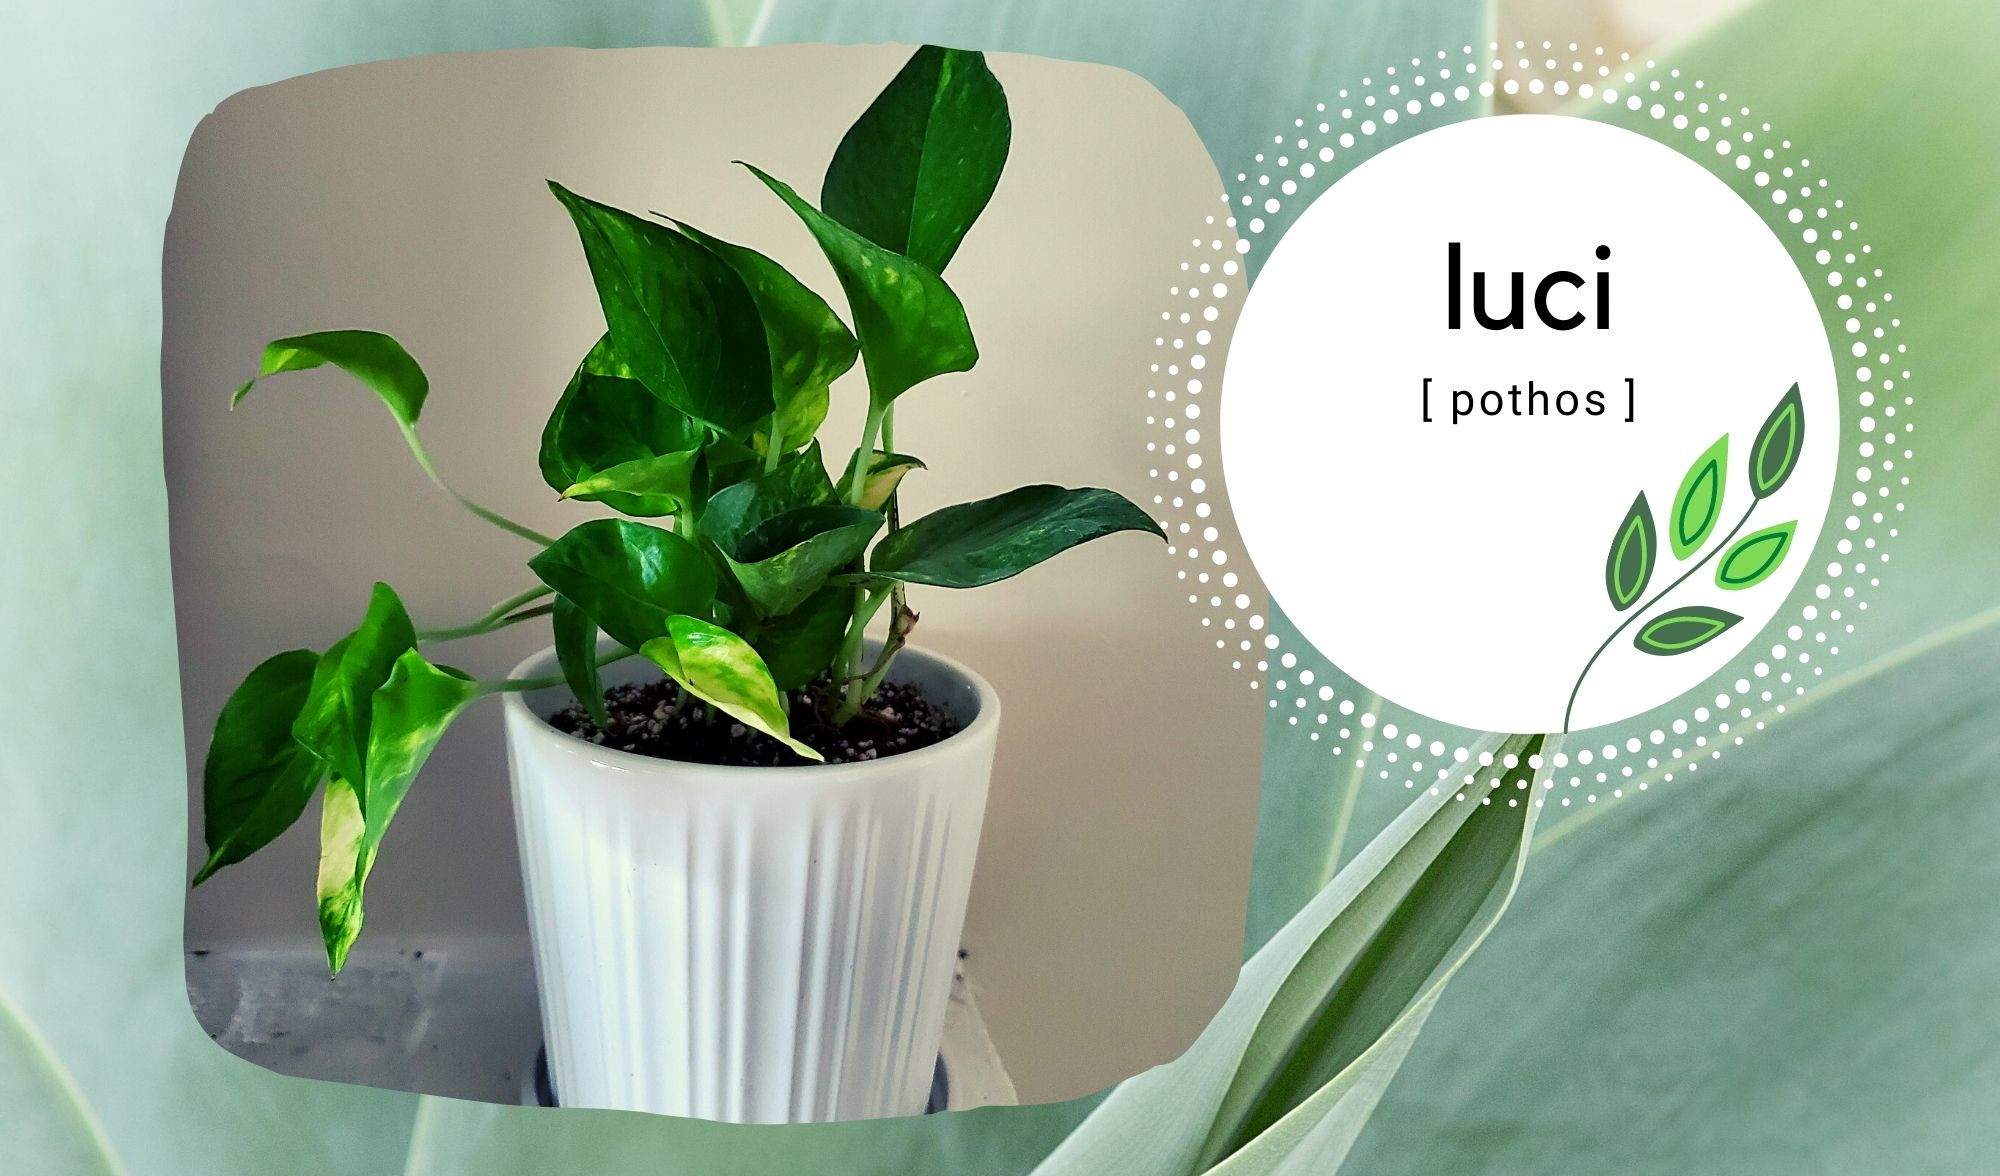
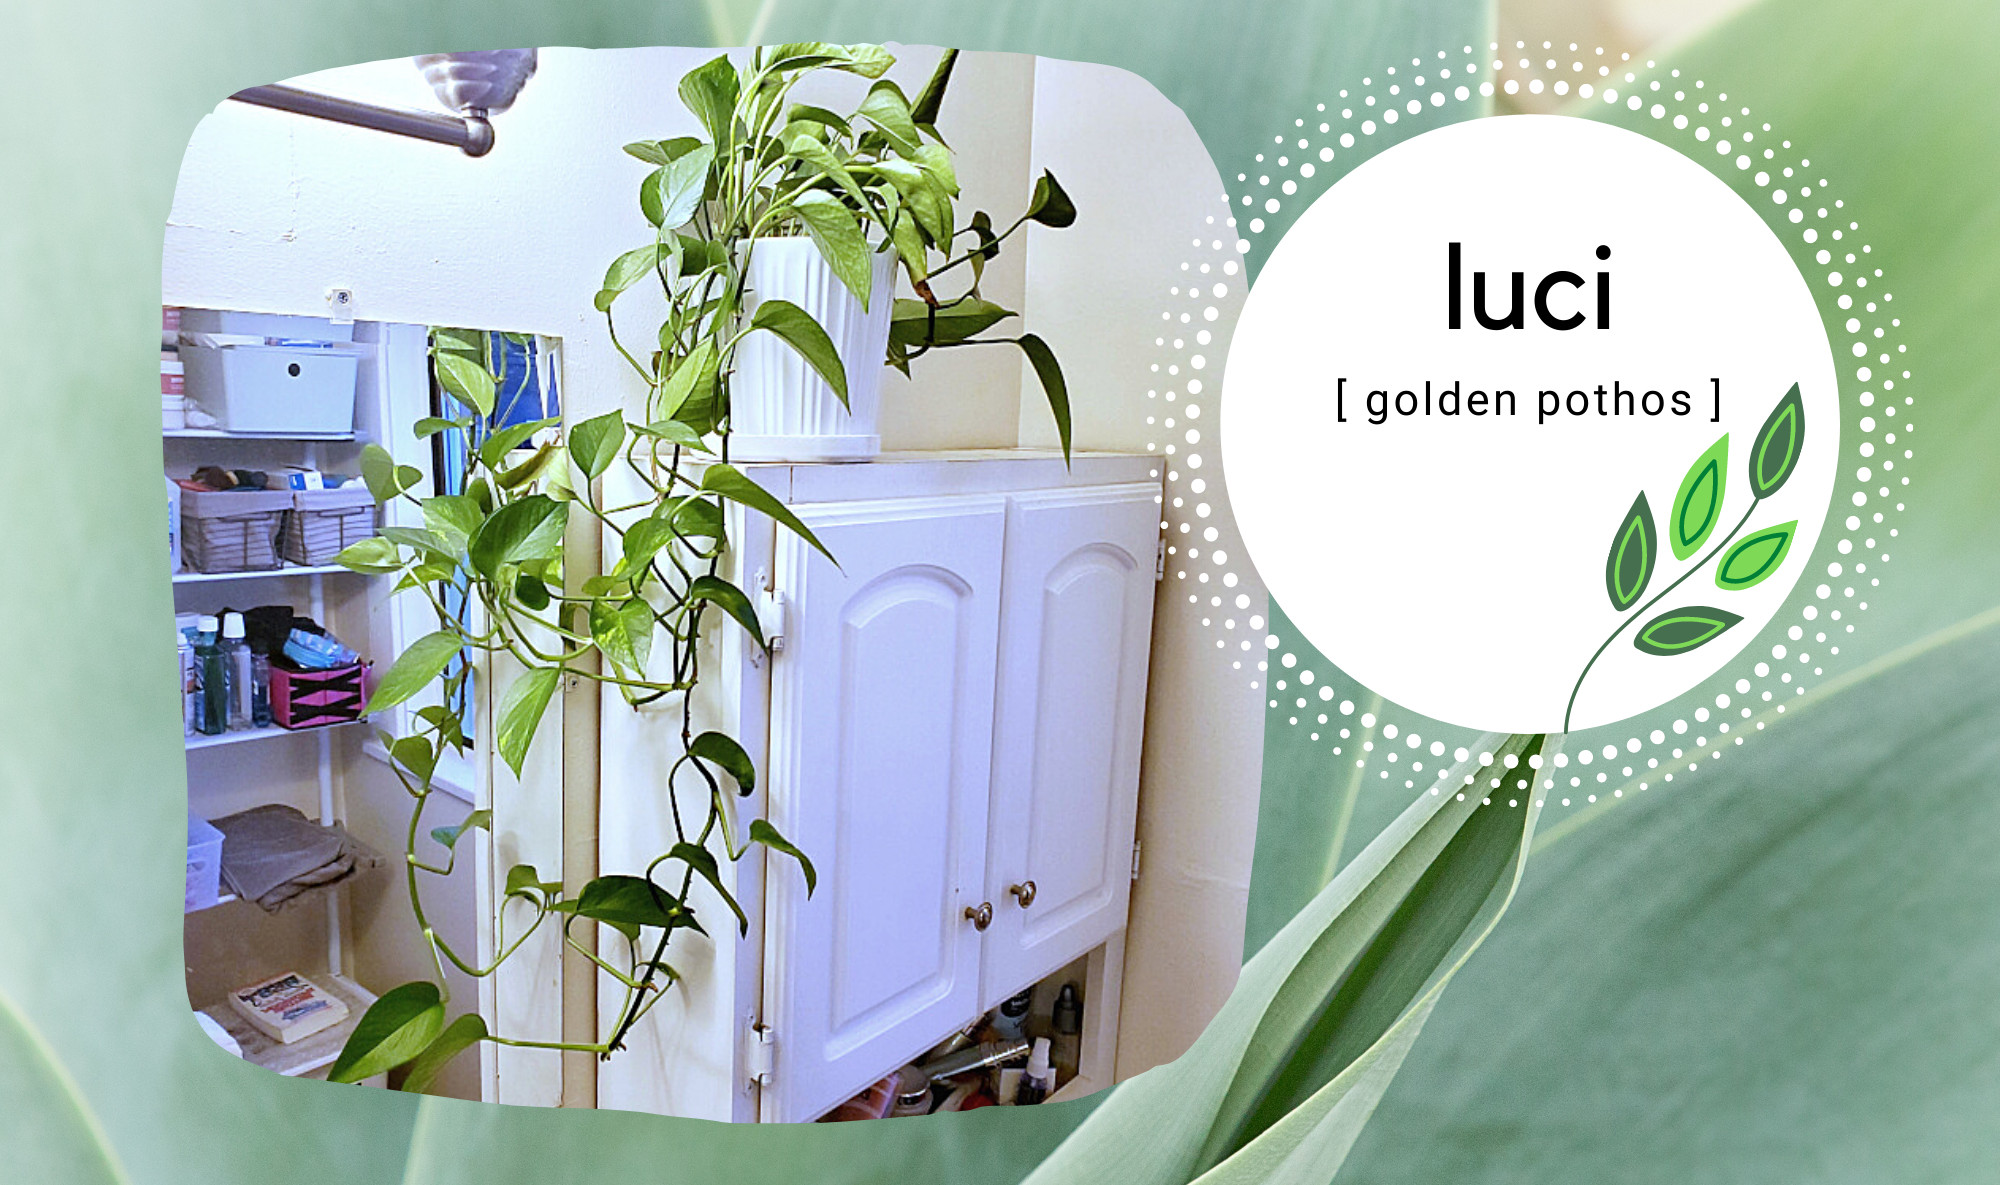
update Luci

diff --git a/_pages/luci.md b/_pages/luci.md
@@ -1,28 +1,32 @@
 ---
 layout: page
-title: Luci (Pothos)
+title: Luci (Golden Pothos)
 permalink: /luci
 comments: false
 image: assets/images/luci/luci.jpg
 imageshadow: true
 ---
 
-#### Devil's Ivy | Pothos
-
-##### Description and Care
+#### Devil's Ivy | Golden Pothos
 
 Pothos is super easy going and can do well in bright or low light, and fine with dry soil or even vases of water. Can survive and grow in just about any environment and can get out of control, giving it the name the Devil's Ivy.
 
 ##### Updates
 
-<img class="figure-img" src="https://raw.githubusercontent.com/cndragn/garden/master/assets/images/luci/luci-aug20.jpg">
+<img class="figure-img" src="{{site.baseurl}}/assets/images/luci/luci-jul20-21.jpg">
 
-**Aug 20: A leaf died** Luci has a yellow leaf and I don't know why! It's not from overwatering, I have only watered it once since I got it, and I've been monitoring it with my moisture level tool. A friend suggested I put it in a place with more sunshine, so I'm moving it into my office for a few days to see how it does.
+**Aug 20, 2021: Is this the same plant?!** I swear it is!! I didn't even realize how much Luci grew over the past year til I saw the pics of when I first got him.  I barely paid any attention to him, and not only did he not die, he grew and grew!  He's been in my bathroom pretty much all this time and seems to be pretty happy there.  *Warm fuzzies!*
 
 <hr/>
 
-<img class="figure-img" src="https://raw.githubusercontent.com/cndragn/garden/master/assets/images/luci/luci-aug7.jpg">
+<img class="figure-img" src="{{site.baseurl}}/assets/images/luci/luci-aug20.jpg">
 
-**Aug 7: Welcome home Luci!** Luci came in the variety set from Costa Farms when I ordered from Amazon. It arrived in great shape, really nice looking and already looking like its doing the viny ivy thing. I decided to put it on the mantle in the livingroom because I think it will look really pretty as it grows downwards. Really looking forward to seeing this one grow and fill out.
+**Aug 20, 2020: A leaf died** Luci has a yellow leaf and I don't know why! It's not from overwatering, I have only watered it once since I got it, and I've been monitoring it with my moisture level tool. A friend suggested I put it in a place with more sunshine, so I'm moving it into my office for a few days to see how it does.
+
+<hr/>
+
+<img class="figure-img" src="{{site.baseurl}}/assets/images/luci/luci-aug7.jpg">
+
+**Aug 7, 2020: Welcome home Luci!** Luci came in the variety set from Costa Farms when I ordered from Amazon. It arrived in great shape, really nice looking and already looking like its doing the viny ivy thing. I decided to put it on the mantle in the livingroom because I think it will look really pretty as it grows downwards. Really looking forward to seeing this one grow and fill out.
 
 <hr/>
